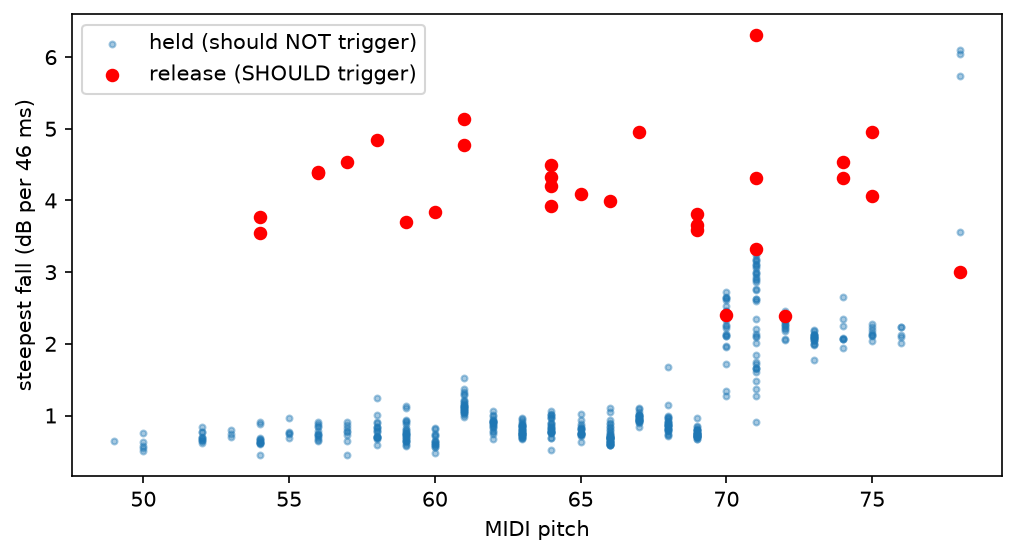
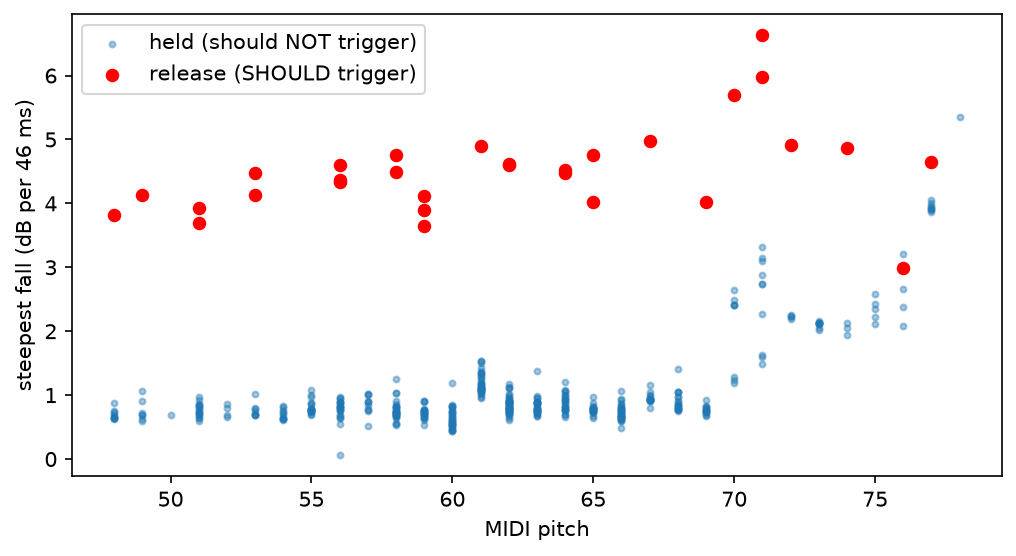
Onset-gated segmentation: held-out F1 0.982

diff --git a/piano-transcriber/src/pianotrans/segment.py b/piano-transcriber/src/pianotrans/segment.py
@@ -6,7 +6,8 @@ Works per key, so it already handles polyphony (several keys active at once).
 import numpy as np
 import librosa
 
-from .config import SR, HOP, key_to_midi
+from .config import (SR, HOP, key_to_midi, RELEASE_SLOPE_DB, RELEASE_RATIO,
+                     REQUIRE_ONSET, ONSET_BEFORE_TOL, ONSET_AFTER_TOL)
 from .note import Note
 
 
@@ -35,7 +36,7 @@ def split_at_onsets(run: tuple[int, int], onset_frames: np.ndarray,
 
 
 def find_release(start: int, end: int, rms_db: np.ndarray,
-                 slope_db: float = 3.0, ratio: float = 1.5,
+                 slope_db: float = RELEASE_SLOPE_DB, ratio: float = RELEASE_RATIO,
                  window: int = 4, skip: int = 9) -> int | None:
     """Return the frame where the key was released, or None.
 
@@ -58,16 +59,24 @@ def find_release(start: int, end: int, rms_db: np.ndarray,
 def activation_to_notes(A: np.ndarray, onset_frames: np.ndarray,
                         sr: int = SR, hop: int = HOP,
                         min_duration: float = 0.05,
-                        snap_tol: int = 3,
                         rms_db: np.ndarray | None = None,
-                        slope_db: float = 3.0,
-                        ratio: float = 1.5) -> list[Note]:
+                        slope_db: float = RELEASE_SLOPE_DB,
+                        ratio: float = RELEASE_RATIO,
+                        require_onset: bool = REQUIRE_ONSET,
+                        before_tol: int = ONSET_BEFORE_TOL,
+                        after_tol: int = ONSET_AFTER_TOL) -> list[Note]:
     """Activation matrix -> list of Notes in SECONDS, sorted by onset.
 
-    rms_db: frame loudness in dB on the same frame grid (see
-    pipeline.loudness_db). If given, notes end at the detected release
-    instead of when the pitch tracker stops hearing them (which includes
-    the reverb tail).
+    Each candidate note (a run of active frames for one key) is matched to the
+    nearest onset within `before_tol` frames before its start or `after_tol`
+    frames after it, and its start is moved to that onset.
+    The window is two-sided because pYIN's long analysis window "sees" a note
+    slightly early, while detected onsets arrive slightly late.
+
+    require_onset: drop candidates with no matching onset. Real notes start
+                   with an attack; reverb-tail fragments and junk pitches don't.
+    rms_db:        frame loudness in dB, same frame grid (pipeline.loudness_db).
+                   Enables release detection for note endings.
     """
     onset_frames = np.asarray(onset_frames)
     notes = []
@@ -76,16 +85,20 @@ def activation_to_notes(A: np.ndarray, onset_frames: np.ndarray,
         for run in active_runs(A[:, k]):              # each stretch it's active
             for start, end in split_at_onsets(run, onset_frames):
 
-                # pYIN often reports pitch a few frames after the attack:
-                # if an onset sits just before this start, move the start back to it
-                before = onset_frames[(onset_frames <= start) &
-                                      (onset_frames >= start - snap_tol)]
-                if len(before):
-                    start = int(before.max())
+                # Match this candidate to the nearest onset around its start
+                near = onset_frames[(onset_frames >= start - before_tol) &
+                                    (onset_frames <= start + after_tol)]
+                if len(near):
+                    start = int(near[np.argmin(np.abs(near - start))])
+                elif require_onset:
+                    continue                          # no attack: not a real note
+                if start >= end:
+                    continue
 
                 # End at the key release rather than the end of the reverb tail
                 if rms_db is not None:
-                    release = find_release(start, end, rms_db,slope_db=slope_db, ratio=ratio)
+                    release = find_release(start, end, rms_db,
+                                           slope_db=slope_db, ratio=ratio)
                     if release is not None:
                         end = release
 

diff --git a/piano-transcriber/tests/test_segment.py b/piano-transcriber/tests/test_segment.py
@@ -40,3 +40,23 @@ def test_drops_blips():
     A = np.zeros((50, N_KEYS), bool)
     A[10:12, midi_to_key(60)] = True    # ~23 ms: noise, not a note
     assert activation_to_notes(A, onset_frames=np.array([10])) == []
+
+
+def test_fragment_without_onset_dropped():
+    """A run with no attack anywhere near its start (e.g. a reverb-tail
+    fragment) is not a played note."""
+    A = np.zeros((100, N_KEYS), bool)
+    A[5:40, midi_to_key(60)] = True       # real note, onset at 5
+    A[60:80, midi_to_key(61)] = True      # fragment, no onset near 60
+    notes = activation_to_notes(A, onset_frames=np.array([5]))
+    assert [n.pitch for n in notes] == [60]
+
+
+def test_onset_just_after_pitch_start():
+    """pYIN can report pitch a frame or two BEFORE the detected onset.
+    The note must be kept and start at the onset."""
+    A = np.zeros((60, N_KEYS), bool)
+    A[10:50, midi_to_key(60)] = True
+    notes = activation_to_notes(A, onset_frames=np.array([12]))
+    assert len(notes) == 1
+    assert abs(notes[0].onset - 12 * FRAME) < 1e-9

diff --git a/piano-transcriber/src/pianotrans/config.py b/piano-transcriber/src/pianotrans/config.py
@@ -21,3 +21,10 @@ def key_to_midi(k: int) -> int:
 def midi_to_key(m: int) -> int:
     """MIDI note number -> activation-matrix column."""
     return m - MIDI_MIN
+
+# --- Segmentation (tuned on data/tune, reported on data/test) ---
+RELEASE_SLOPE_DB = 3.0   # note ends where loudness falls > this many dB per 4 frames...
+RELEASE_RATIO = 1.5      # ...and > this many times faster than just before
+REQUIRE_ONSET = True     # drop candidate notes with no onset near their start
+ONSET_BEFORE_TOL = 3     # frames an onset may sit BEFORE a pitch run starts (~35 ms)
+ONSET_AFTER_TOL = 2      # frames an onset may sit AFTER a pitch run starts (~23 ms)

diff --git a/piano-transcriber/DEVLOG.md b/piano-transcriber/DEVLOG.md
@@ -33,3 +33,8 @@ Three lines per session, max. Add entries with `python log.py` or by hand.
 - Did: fixed slope_db default override; release detection now active in evaluate.py
 - Learned: held-out F1 0.901 -> 0.961 with release detection; remaining errors are mostly extra notes (P 0.942 < R 0.981)
 - Next: attack pitch glitches / extra notes
+
+## 2026-11-04
+- Did: onset-gated segmentation with two-sided onset matching
+- Learned: held-out F1 0.961 -> 0.982, onset-only 0.997; 23/30 melodies perfect
+- Next: rhythm + notation: first sheet music
